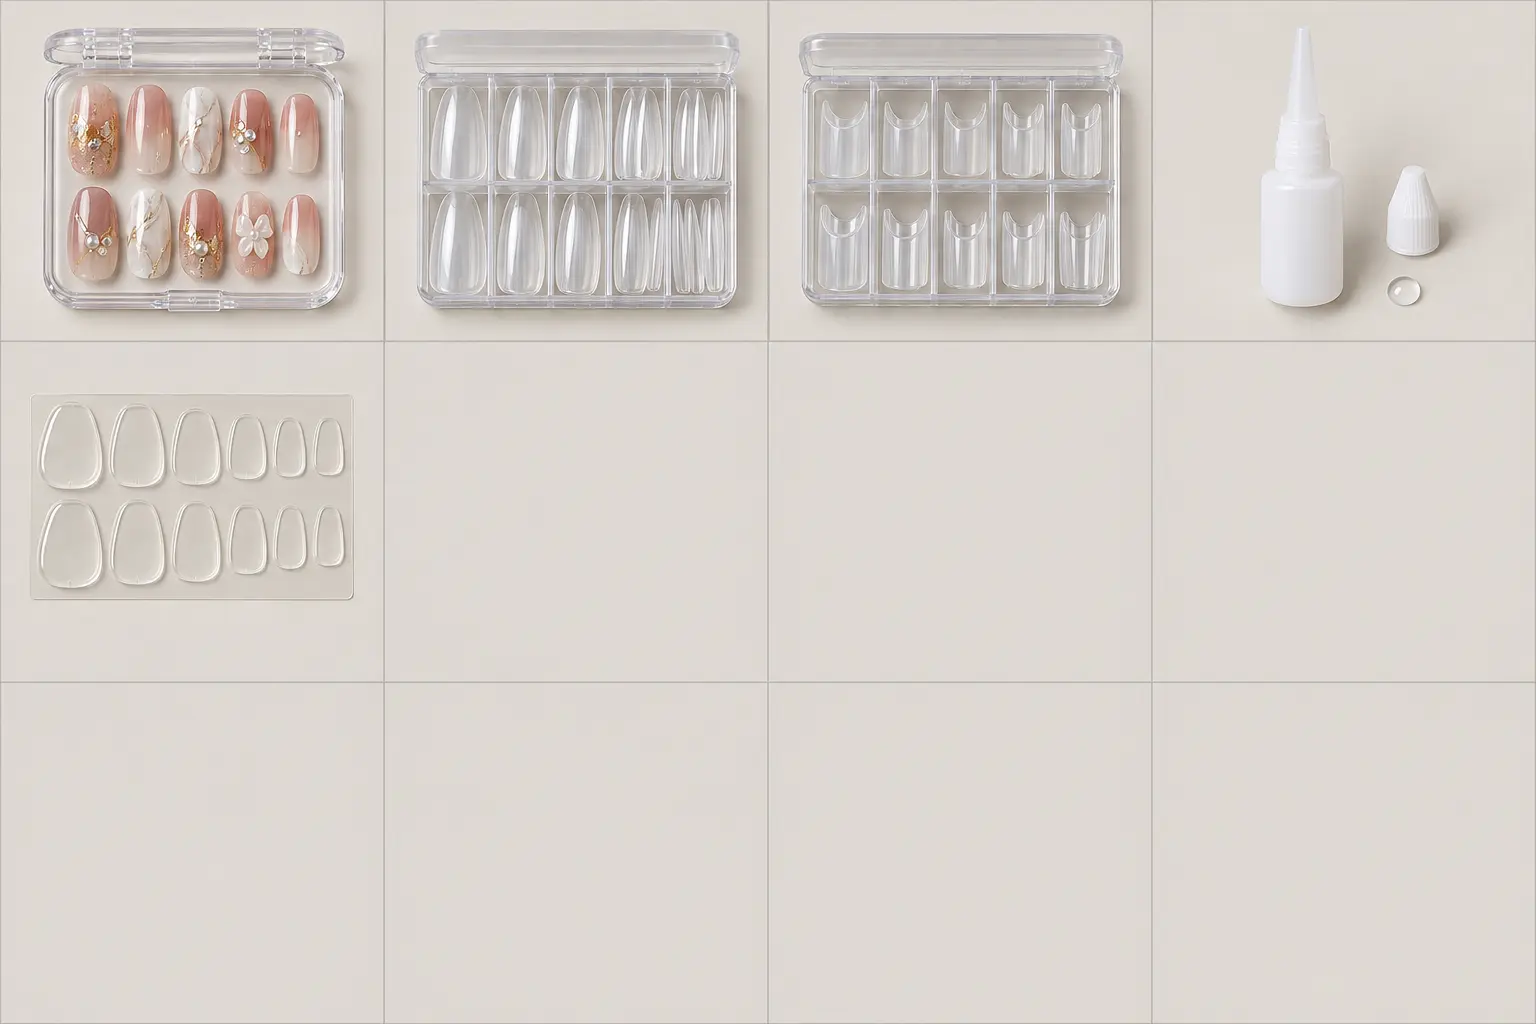
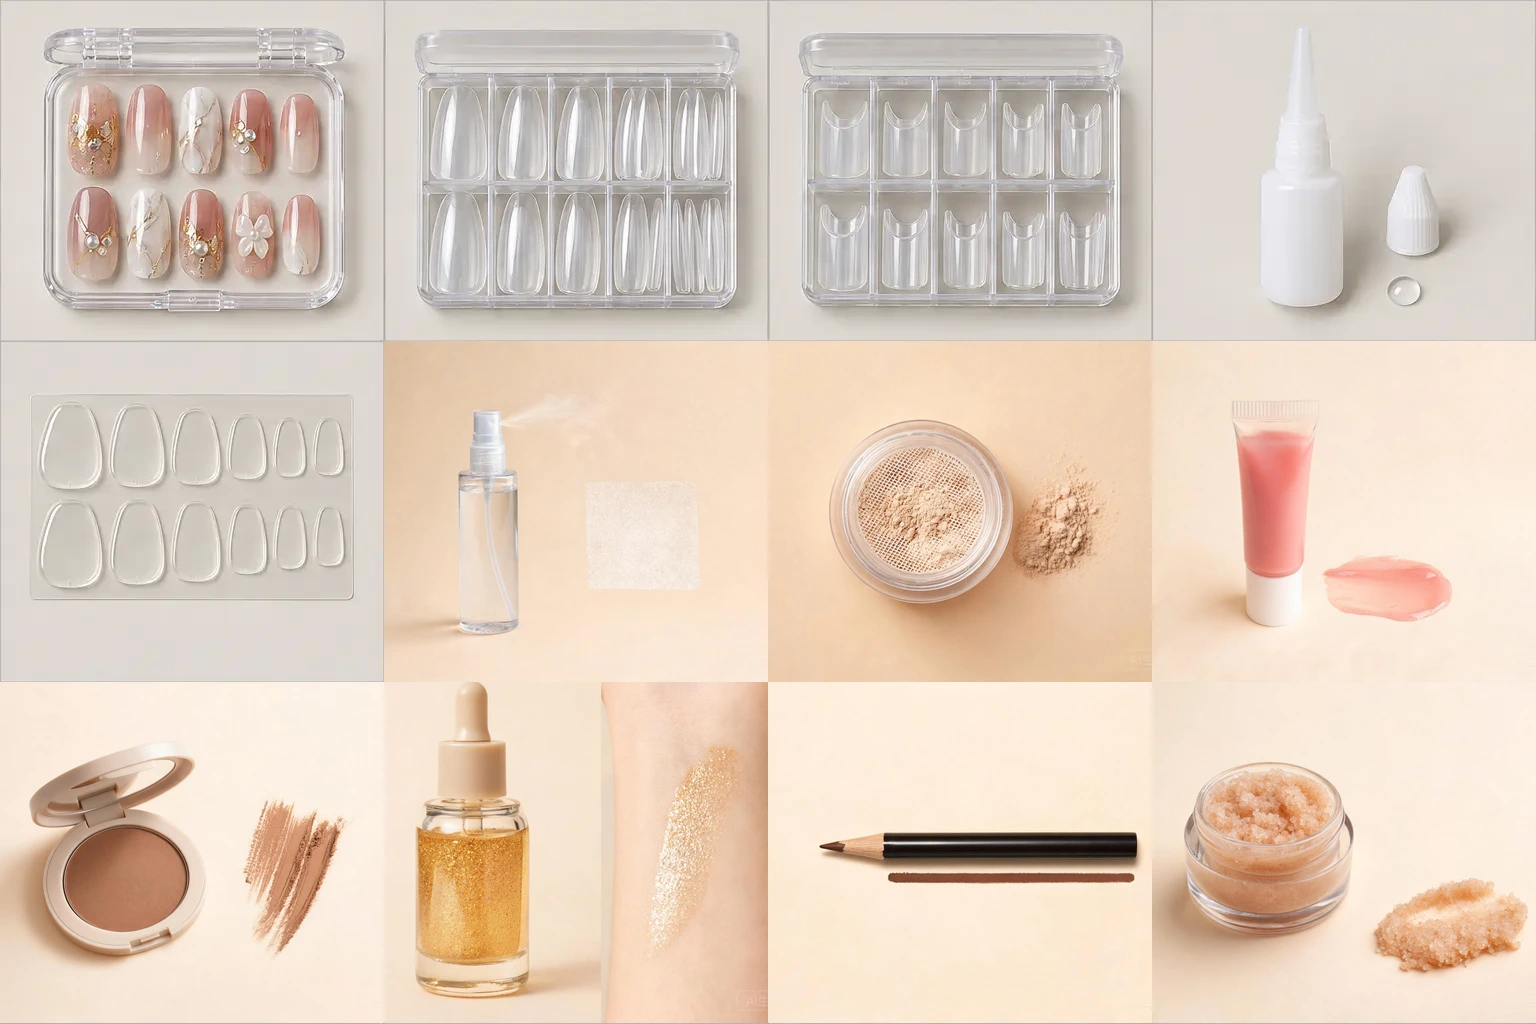
美妆产品图例全量替换：grid10 填空 + grid11-16 简笔画改写实产品摄影

diff --git a/examples-data.js b/examples-data.js
@@ -1,5 +1,5 @@
 (() => {
-  const ASSET_VERSION = '20261019b';
+  const ASSET_VERSION = '20261019c';
   const sheet = (file, col, row, alt) => ({
     file: `./assets/examples/${file}?v=${ASSET_VERSION}`,
     x: ['0%', '33.333%', '66.667%', '100%'][col],
@@ -651,7 +651,7 @@
     '定妆喷雾','矿物定妆粉','腮红凝胶','暖调修容粉',
     '水光高光液','彩色眼线胶笔','唇部磨砂膏'
   ]);
-  addProductSheet('product-reference-11-grid.jpg', [
+  addProductSheet('product-reference-11-grid.webp', [
     '腮红喷雾','古铜喷雾','高光喷雾','眼线马克笔',
     '唇部防晒棒','温变甲油胶','眉毛雨衣','营养底油',
     '定妆膏','妆前棒','校色隔离霜','舞台粉底膏'
@@ -859,27 +859,27 @@
     '男团少年妆','油画复古妆','巴洛克宫廷妆','见家长妆',
     '下午茶妆','全包眼线妆','开眼角眼妆','焦糖烤奶妆'
   ]);
-  addProductSheet('product-reference-12-grid.jpg', [
+  addProductSheet('product-reference-12-grid.webp', [
     '腮红液','修容笔','高光粉饼','卧蚕笔',
     '遮瑕蜜','妆前膏','定妆蜜粉','睫毛雨衣',
     '眉胶','唇部精华','闪粉胶','美甲清洁剂'
   ]);
-  addProductSheet('product-reference-13-grid.jpg', [
+  addProductSheet('product-reference-13-grid.webp', [
     '果冻粉底','刀锋眼线膏','腮红霜','古铜凝胶',
     '高光粉','眼影液','唇纹填充膏','光泽妆前乳',
     '遮瑕校色盘','水散粉','发际线粉','珠光身体乳'
   ]);
-  addProductSheet('product-reference-14-grid.jpg', [
+  addProductSheet('product-reference-14-grid.webp', [
     '水粉底','气垫眉粉','修容霜','高光啫喱',
     '眼线墨笔','眼影膏笔','唇部雨衣','防晒妆前凝露',
     '双色修容盘','柔光散粉','眉笔胶','身体彩绘膏'
   ]);
-  addProductSheet('product-reference-15-grid.jpg', [
+  addProductSheet('product-reference-15-grid.webp', [
     '水粉霜','气垫遮瑕','毛孔妆前','卧蚕液',
     '唇线胶笔','定妆喷雾棒','腮红粉饼','纤维睫毛膏',
     '戏剧油彩','甲面干燥剂','光变甲油胶','砂糖胶'
   ]);
-  addProductSheet('product-reference-16-grid.jpg', [
+  addProductSheet('product-reference-16-grid.webp', [
     '有色面霜','修容粉饼','高光球','卧蚕阴影笔',
     '局部定妆液','唇膜贴','指缘软化剂','美甲转印胶',
     '碎钻粉','假睫毛卸除液','油彩定妆喷雾','爆裂甲油'

diff --git a/beauty.html b/beauty.html
@@ -128,7 +128,7 @@
   <script src="./brand-products-data.js"></script>
   <script src="./brand-products-expansion.js?v=2.6"></script>
   <script src="./brand-product-images.js?v=2.6"></script>
-  <script src="./examples-data.js?v=1.28"></script>
+  <script src="./examples-data.js?v=1.29"></script>
   <script src="./sources-data.js?v=1.12"></script>
   <script src="./beauty.js?v=3.12"></script>
 </body>

diff --git a/recognize.html b/recognize.html
@@ -138,7 +138,7 @@
   </footer>
 
   <script src="./beauty-data.js?v=3.30"></script>
-  <script src="./examples-data.js?v=1.28"></script>
+  <script src="./examples-data.js?v=1.29"></script>
   <script src="./body-data.js?v=1.8.5"></script>
   <script src="./body-examples.js?v=1.8"></script>
   <script type="module" src="./recognize.js?v=1.9"></script>

diff --git a/index.html b/index.html
@@ -159,7 +159,7 @@
   </dialog>
 
   <script src="./data.js?v=5.6"></script>
-  <script src="./examples-data.js?v=1.28"></script>
+  <script src="./examples-data.js?v=1.29"></script>
   <script src="./sources-data.js?v=1.12"></script>
   <script src="./app.js?v=3.14"></script>
 </body>
